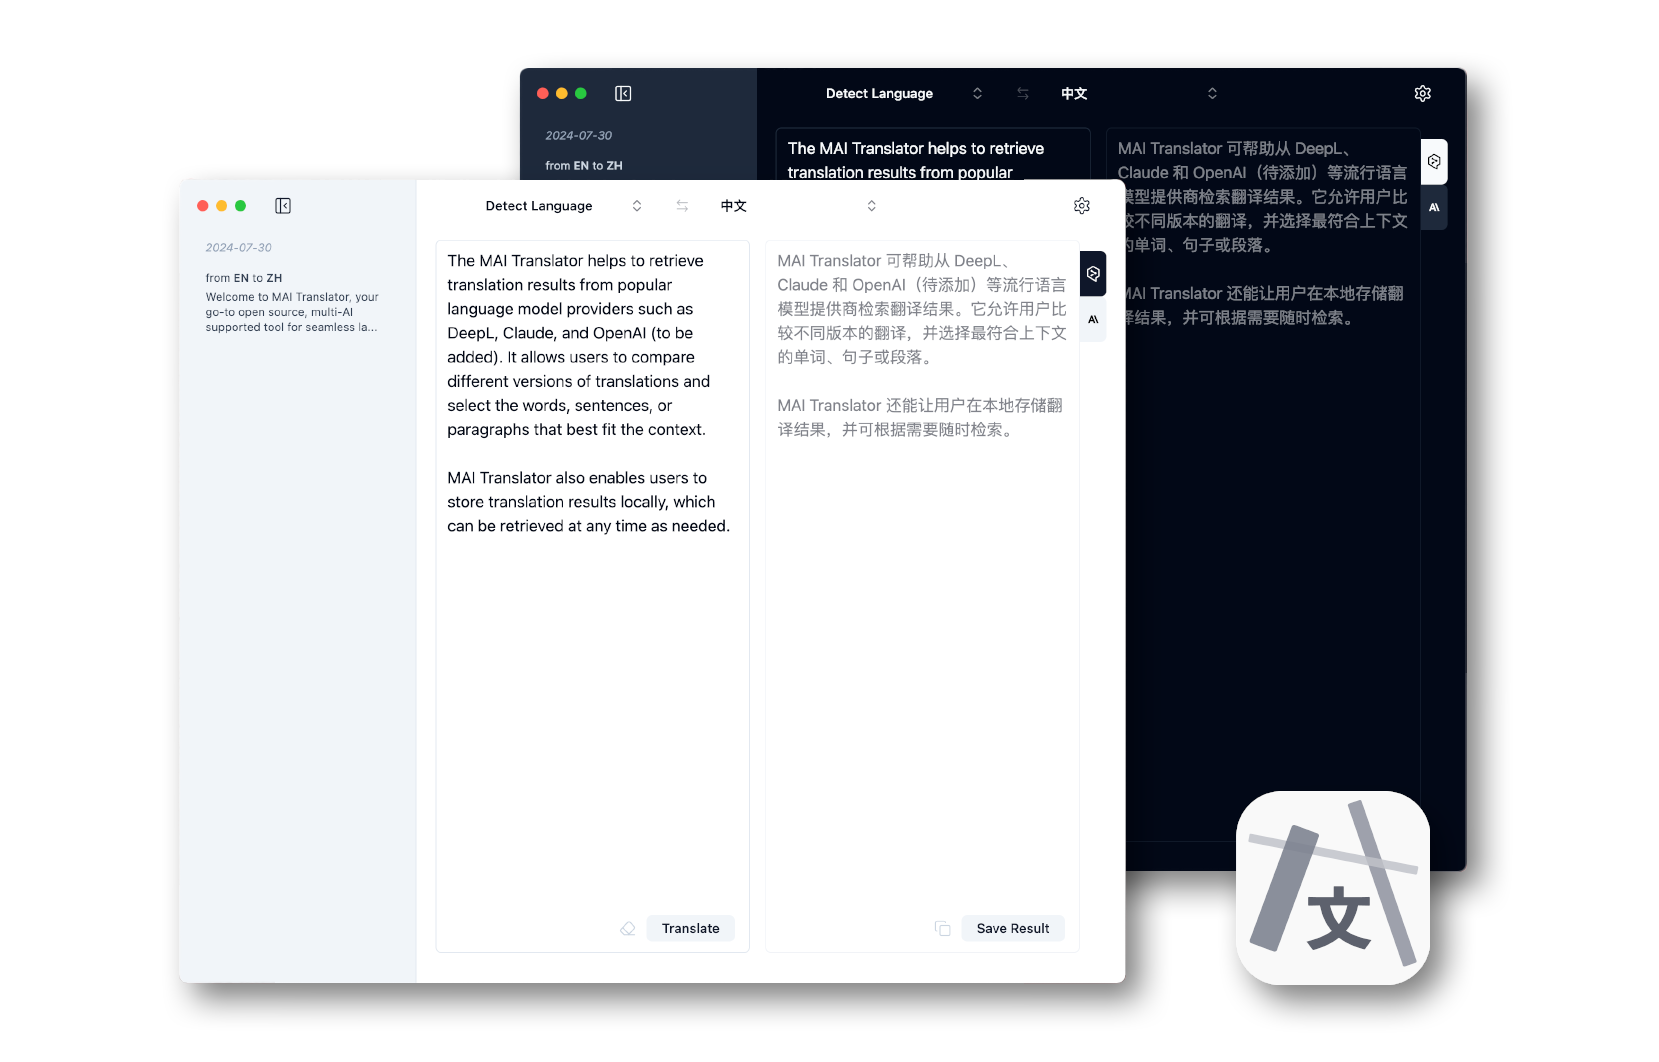
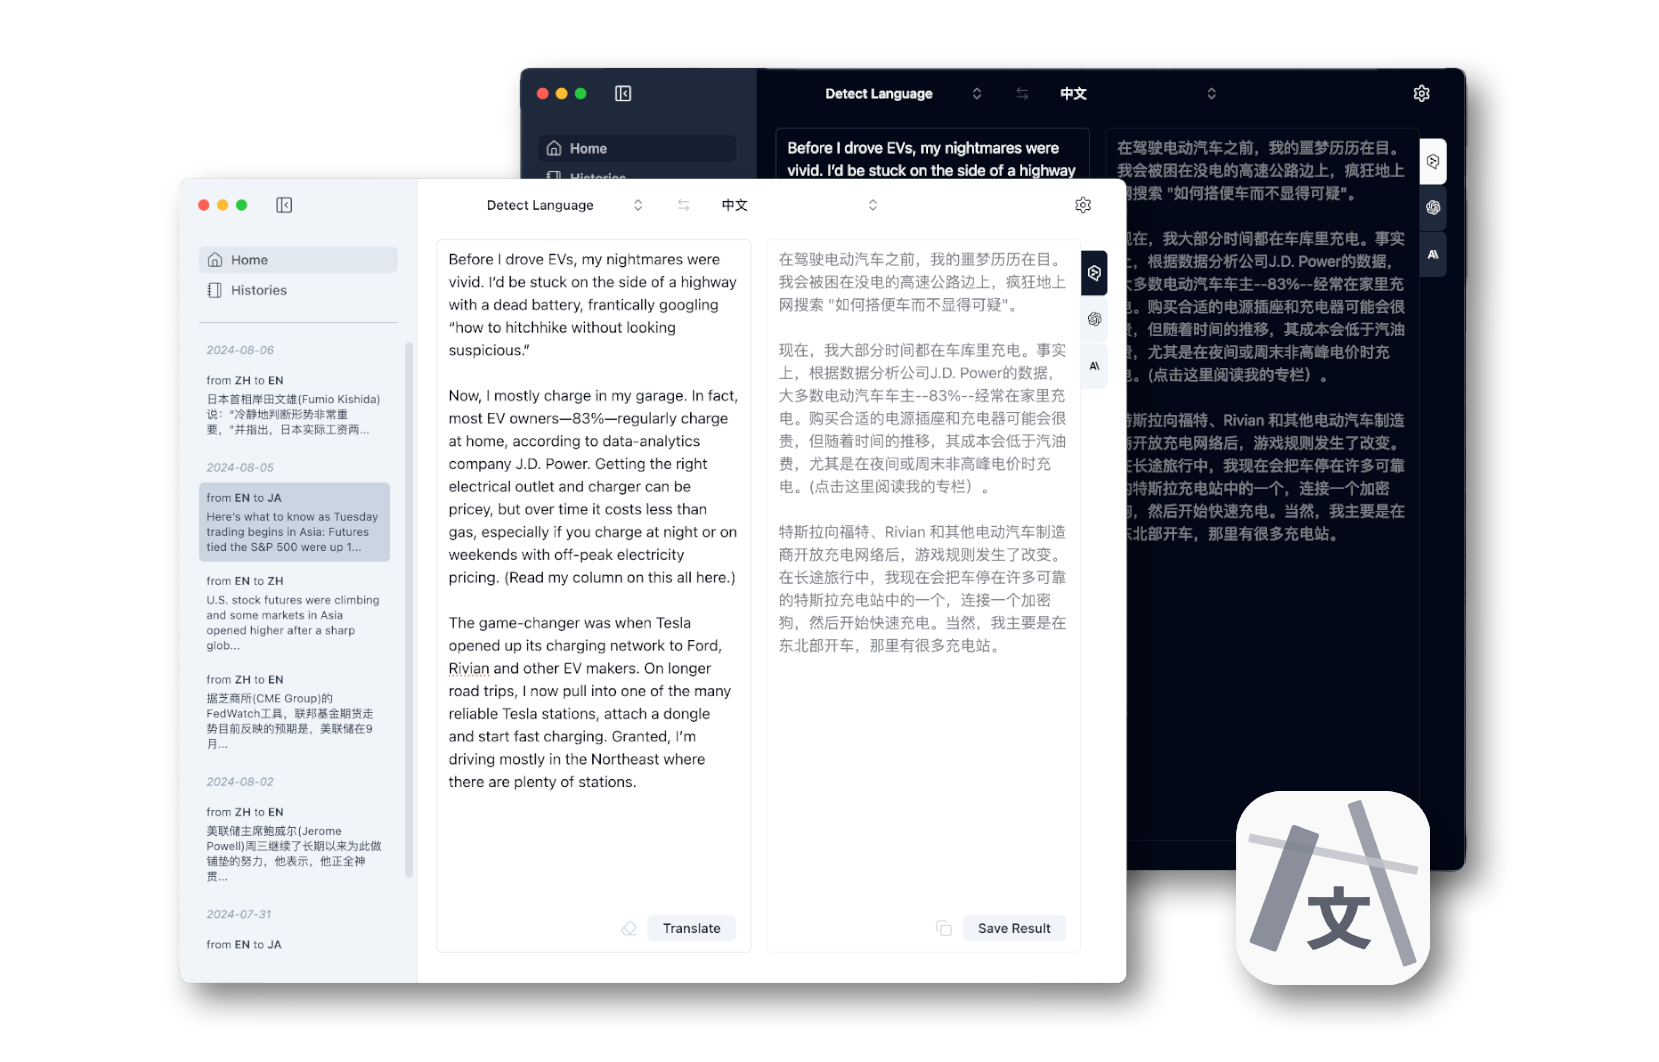
README.md updated

diff --git a/README.md b/README.md
@@ -24,6 +24,12 @@ The MAI Translator helps to retrieve translation results from popular language m
   <image src="./public/demo.gif" width="500px"/>
 </p>
 
+## Updates
+
+- *v-0.2.0*
+  - Added a navigation menu.
+  - Updated translation record interface, displaying the record on a whole page instead of a modal now.
+  - Added OpenAI support.
 
 ## Preparation
 
